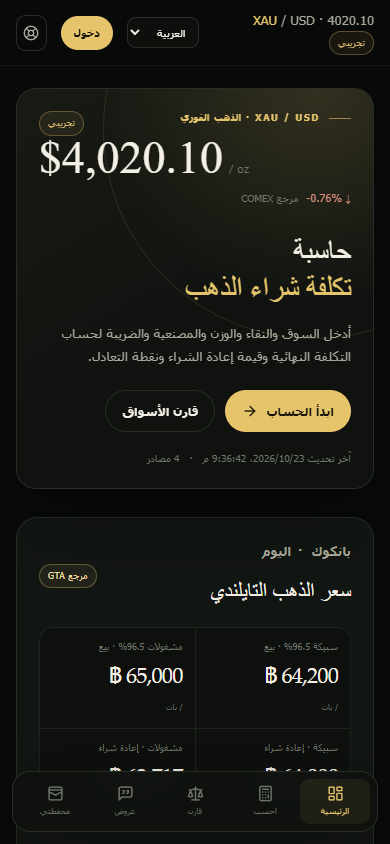
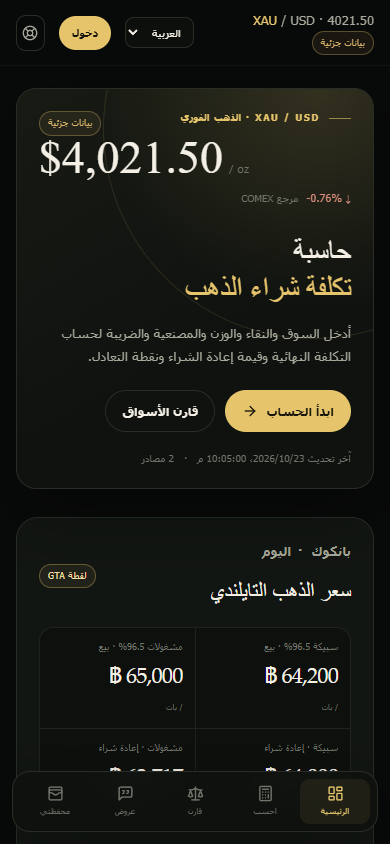
feat: show partial-data status for live sources

diff --git a/packages/i18n/src/index.ts b/packages/i18n/src/index.ts
@@ -26,12 +26,12 @@ const zh = {
     noData: '暂无数据', normal: '正常', localMode: '本地模式', synced: '已同步', free: 'FREE', pro: 'PRO', upgrade: '升级到 Pro',
     current: '当前', all: '全部', actions: '操作', market: '市场', weight: '重量', purity: '纯度', city: '城市',
     name: '名称', type: '类型', cost: '成本', value: '估值', pnl: '盈亏', total: '合计', perGram: '每克',
-    currency: '币种', role: '角色', plan: '方案', optional: '可选', required: '必填', demoOnly: '演示', mainNav: '主导航', workspaceNav: '工作区', mobileNav: '移动导航', priceTrend: '价格走势', noTrend: '暂无走势', workspace: '工作区', refresh: '1 分钟刷新'
+    currency: '币种', role: '角色', plan: '方案', optional: '可选', required: '必填', demoOnly: '演示', mainNav: '主导航', workspaceNav: '工作区', mobileNav: '移动导航', priceTrend: '价格走势', noTrend: '暂无走势', workspace: '工作区', refresh: '1 分钟刷新', partial: '部分数据'
   },
   home: {
     eyebrow: 'XAU / USD · 现货黄金', titleA: '黄金购买成本', titleB: '计算与对比',
     subtitle: '输入市场、纯度、重量、工费和税费，计算到手价、回购价与回本点。',
-    ctaCalc: '开始计算', ctaCompare: '对比市场', gta: 'GTA 官方参考', comex: 'COMEX 参考', bangkok: '曼谷 · 今日',
+    ctaCalc: '开始计算', ctaCompare: '对比市场', gta: 'GTA 官方参考', gtaSnapshot: 'GTA 快照', comex: 'COMEX 参考', bangkok: '曼谷 · 今日',
     thaiTitle: '泰国金价', barSell: '金条 96.5% · 卖出', ornamentSell: '金饰 96.5% · 卖出',
     barBuy: '金条 · 回购', ornamentBuy: '金饰 · 回购', perBaht: '/ บาท', spread: '金饰一买一卖，价差 {spread}，约 {pct}%',
     sparkTitle: '国际金价 · 近 30 天', quickRead: '快速估算', oneBaht: '1 baht 金饰预估', buybackApprox: '回购约 {value} · 回本需 {pct}%',
@@ -167,8 +167,8 @@ const en: Dict = {
   markets: { TH: 'Thailand', AE: 'UAE', IN: 'India', US: 'United States' },
   verification: { self_reported: 'Self-reported', verified: 'Verified', audited: 'Audited' },
   meta: { title: 'GoldLens · Gold purchase cost calculator', description: 'Spot, local counter price, making charge, tax and buyback — one bill.' },
-  common: { signIn: 'Sign in', signOut: 'Sign out', live: 'LIVE', demo: 'DEMO', snapshot: 'Snapshot', updated: 'Updated', sources: '{n} sources', view: 'View', save: 'Save', delete: 'Delete', add: 'Add', submit: 'Submit', submitting: 'Submitting', cancel: 'Cancel', back: 'Back', close: 'Close', language: 'Language', email: 'Email', password: 'Password', login: 'Sign in', loading: 'Loading', error: 'Something went wrong', retry: 'Retry', notFound: 'Not found', notFoundTitle: 'Page not found', notFoundBody: 'The page may have been removed, or the link is incorrect. Return to the home page.', errorTitle: 'Page failed to load', errorBody: 'A temporary error occurred. Your data is safe. Please retry or return home.', disclaimer: 'This tool does not provide trading, custody or investment advice. Prices include source and timestamp.', noData: 'No data', normal: 'Normal', localMode: 'Local mode', synced: 'Synced', free: 'FREE', pro: 'PRO', upgrade: 'Upgrade to Pro', current: 'Current', all: 'All', actions: 'Actions', market: 'Market', weight: 'Weight', purity: 'Purity', city: 'City', name: 'Name', type: 'Type', cost: 'Cost', value: 'Value', pnl: 'P&L', total: 'Total', perGram: 'Per gram', currency: 'Currency', role: 'Role', plan: 'Plan', optional: 'Optional', required: 'Required', demoOnly: 'Demo', mainNav: 'Main navigation', workspaceNav: 'Workspace', mobileNav: 'Mobile navigation', priceTrend: 'Price trend', noTrend: 'No trend data', workspace: 'Workspace', refresh: '1m refresh' },
-  home: { eyebrow: 'XAU / USD · SPOT GOLD', titleA: 'Gold purchase cost ', titleB: 'calculator & comparison', subtitle: 'Enter market, purity, weight, making charge and tax to calculate landed cost, buyback value and break-even.', ctaCalc: 'Start calculation', ctaCompare: 'Compare markets', gta: 'GTA reference', comex: 'COMEX reference', bangkok: 'BANGKOK · TODAY', thaiTitle: 'Thai gold price', barSell: 'Bar 96.5% · sell', ornamentSell: 'Jewelry 96.5% · sell', barBuy: 'Bar · buyback', ornamentBuy: 'Jewelry · buyback', perBaht: '/ baht', spread: 'Jewelry round-trip spread {spread}, about {pct}%', sparkTitle: 'Spot gold · last 30 days', quickRead: 'Quick estimate', oneBaht: '1 baht jewelry estimate', buybackApprox: 'Buyback about {value} · break-even {pct}%', kpiHidden: 'Thai jewelry hidden cost', kpiPremium: 'Jewelry premium', kpiFx: 'USD / THB', kpiDegraded: 'Data degraded', trueCostEyebrow: 'LIVE CALCULATION', trueCostTitle: 'Quick calculator', fullCalc: 'Open calculator', marketPulseEyebrow: 'MARKET', marketPulseTitle: 'Market overview', marketPulseSub: '1g · local default purity · default making/tax', tableMarket: 'Market', tablePurity: 'Purity', tableTotal: 'Landed / g', tableBuyback: 'Buyback / g', tableBreakEven: 'Break-even', tableData: 'Data', featuresEyebrow: 'WHAT YOU CAN DO', featuresTitle: 'Features', f1Title: 'True cost', f1Body: 'Metal, making, tax, buyback and break-even in one bill.', f2Title: 'Cross-market', f2Body: 'Thailand, UAE, India and US on one unit and basis.', f3Title: 'Holdings', f3Body: 'Local-first, valued at today’s buyback price.', f4Title: 'Price alerts', f4Body: 'Set a target price and get an alert when it is reached.', f5Title: 'Dealer quotes', f5Body: 'Send a structured request and get comparable offers.', f6Title: 'Natural language input', f6Body: 'A sentence or a receipt becomes structured input; the engine still calculates.', howEyebrow: 'RELEASE NOTES', howTitle: 'Current version', howBody: 'This version provides market data, cost calculation, holdings, alerts and quotes. Demo mode uses a bundled snapshot and sample dealer data.', updatedAt: 'Updated {time}', dataSources: '{n} sources' },
+  common: { signIn: 'Sign in', signOut: 'Sign out', live: 'LIVE', demo: 'DEMO', snapshot: 'Snapshot', updated: 'Updated', sources: '{n} sources', view: 'View', save: 'Save', delete: 'Delete', add: 'Add', submit: 'Submit', submitting: 'Submitting', cancel: 'Cancel', back: 'Back', close: 'Close', language: 'Language', email: 'Email', password: 'Password', login: 'Sign in', loading: 'Loading', error: 'Something went wrong', retry: 'Retry', notFound: 'Not found', notFoundTitle: 'Page not found', notFoundBody: 'The page may have been removed, or the link is incorrect. Return to the home page.', errorTitle: 'Page failed to load', errorBody: 'A temporary error occurred. Your data is safe. Please retry or return home.', disclaimer: 'This tool does not provide trading, custody or investment advice. Prices include source and timestamp.', noData: 'No data', normal: 'Normal', localMode: 'Local mode', synced: 'Synced', free: 'FREE', pro: 'PRO', upgrade: 'Upgrade to Pro', current: 'Current', all: 'All', actions: 'Actions', market: 'Market', weight: 'Weight', purity: 'Purity', city: 'City', name: 'Name', type: 'Type', cost: 'Cost', value: 'Value', pnl: 'P&L', total: 'Total', perGram: 'Per gram', currency: 'Currency', role: 'Role', plan: 'Plan', optional: 'Optional', required: 'Required', demoOnly: 'Demo', mainNav: 'Main navigation', workspaceNav: 'Workspace', mobileNav: 'Mobile navigation', priceTrend: 'Price trend', noTrend: 'No trend data', workspace: 'Workspace', refresh: '1m refresh', partial: 'Partial data' },
+  home: { eyebrow: 'XAU / USD · SPOT GOLD', titleA: 'Gold purchase cost ', titleB: 'calculator & comparison', subtitle: 'Enter market, purity, weight, making charge and tax to calculate landed cost, buyback value and break-even.', ctaCalc: 'Start calculation', ctaCompare: 'Compare markets', gta: 'GTA reference', gtaSnapshot: 'GTA snapshot', comex: 'COMEX reference', bangkok: 'BANGKOK · TODAY', thaiTitle: 'Thai gold price', barSell: 'Bar 96.5% · sell', ornamentSell: 'Jewelry 96.5% · sell', barBuy: 'Bar · buyback', ornamentBuy: 'Jewelry · buyback', perBaht: '/ baht', spread: 'Jewelry round-trip spread {spread}, about {pct}%', sparkTitle: 'Spot gold · last 30 days', quickRead: 'Quick estimate', oneBaht: '1 baht jewelry estimate', buybackApprox: 'Buyback about {value} · break-even {pct}%', kpiHidden: 'Thai jewelry hidden cost', kpiPremium: 'Jewelry premium', kpiFx: 'USD / THB', kpiDegraded: 'Data degraded', trueCostEyebrow: 'LIVE CALCULATION', trueCostTitle: 'Quick calculator', fullCalc: 'Open calculator', marketPulseEyebrow: 'MARKET', marketPulseTitle: 'Market overview', marketPulseSub: '1g · local default purity · default making/tax', tableMarket: 'Market', tablePurity: 'Purity', tableTotal: 'Landed / g', tableBuyback: 'Buyback / g', tableBreakEven: 'Break-even', tableData: 'Data', featuresEyebrow: 'WHAT YOU CAN DO', featuresTitle: 'Features', f1Title: 'True cost', f1Body: 'Metal, making, tax, buyback and break-even in one bill.', f2Title: 'Cross-market', f2Body: 'Thailand, UAE, India and US on one unit and basis.', f3Title: 'Holdings', f3Body: 'Local-first, valued at today’s buyback price.', f4Title: 'Price alerts', f4Body: 'Set a target price and get an alert when it is reached.', f5Title: 'Dealer quotes', f5Body: 'Send a structured request and get comparable offers.', f6Title: 'Natural language input', f6Body: 'A sentence or a receipt becomes structured input; the engine still calculates.', howEyebrow: 'RELEASE NOTES', howTitle: 'Current version', howBody: 'This version provides market data, cost calculation, holdings, alerts and quotes. Demo mode uses a bundled snapshot and sample dealer data.', updatedAt: 'Updated {time}', dataSources: '{n} sources' },
   calc: { eyebrow: 'TRUE COST CALCULATOR', title: 'Gold purchase cost calculator', subtitle: 'Choose market, purity and weight, then adjust making charge and tax. Results update instantly.', aiPlaceholder: 'e.g. 1 baht 96.5 in Bangkok today', aiNote: 'AI only parses input parameters. Amounts are calculated by the calculator; AI gives no buy or sell advice.', aiParse: 'Parse', aiParsing: 'Parsing', aiSourceAI: 'AI parse', aiSourceRules: 'Rules parse', aiError: 'Could not parse; use the form below', market: 'Market', purity: 'Purity', weight: 'Weight', making: 'Making / design premium', tax: 'Tax', updated: 'Calculation updated', reset: 'Reset', localNote: 'Local prices and taxes vary by store, product and policy. Use this as an anchor, not a dealer quote.', resultEyebrow: 'COST BREAKDOWN', resultTitle: 'Estimated landed cost', estimated: 'ESTIMATE', perUnit: '{weight} {unit} · {purity} · {market}{ref}', gtaRef: ' GTA reference', converted: ' converted', stackMetal: 'Metal {value}', stackMaking: 'Making {value}', stackTax: 'Tax {value}', vsMetal: 'Vs metal', buyback: 'Buyback', perGram: 'Per gram', breakEven: 'Break-even', lossTitle: 'Round-trip hidden cost', insightThai: 'Of {total}, metal is {metal} and jewelry premium is {making}. A round trip loses {loss}; gold must rise {pct}% to break even.', insightOther: 'You pay {premium} above international metal. Buyback applies a {spread}% discount, so a round trip loses {loss}.', reference: 'Reference only', sourceSpot: 'Spot + FX', fairOk: 'Near bar price', fairWarn: 'High premium', fairBad: 'Very high premium', unitG: 'g', unitBaht: 'baht', unitTola: 'tola', unitOz: 'oz', source: 'Source: {source} · live refresh', invalid: 'Enter a valid weight to see the bill.', note: 'For price anchoring, not investment advice. Thailand uses GTA; other markets are spot + adjustable making/tax estimates, not dealer quotes.' },
   compare: { eyebrow: 'SAME UNIT · SAME PURITY', title: 'Market comparison', subtitle: 'Compare landed cost, buyback value and break-even across four markets using the same weight and purity.', weight: 'Weight', purity: 'Purity', scope: 'Basis', grams: '{value} g · default making/tax', tableMarket: 'Market', tableTotal: 'Landed cost', tablePremium: 'Vs metal', tableBuyback: 'Buyback', tableBreakEven: 'Break-even', tableVerdict: 'Verdict', best: 'Lowest landed cost in this set', comparable: 'Comparable', details: 'Details', note: '“Lowest landed cost” only holds for this set and excludes flights, travel, negotiation and buyback policy differences. Check buyback before buying across borders.' },
   quotes: { eyebrow: 'DEALER QUOTES', title: 'Get a quote', subtitle: 'Submit a structured request and receive quotes from verified dealers within 24 hours. Ranking is based on price, buyback, distance and verification, not commission.', verified: '{n} verified dealers', formEyebrow: 'REQUEST A QUOTE', formTitle: 'Request a quote', formSub: 'Your request goes to verified dealers; quotes carry expiry and verification level.', city: 'City', weight: 'Weight (g)', purity: 'Purity', note: 'Note', notePlaceholder: 'e.g. jewelry, visiting today, buyback terms', submit: 'Request quote', submitting: 'Submitting', submitted: 'Submitted · {id}… · dealers respond within 24h', failed: 'Submission failed; try again', disclaimer: 'No trading, no custody. A dealer quote is a commercial offer, subject to store confirmation.', currentEyebrow: 'THAILAND · 96.5%', currentTitle: 'Current quotes', noQuotes: 'No active quotes. Submit a request and dealers will appear here.', validUntil: 'Valid until {date}', sampleNote: 'Seed quotes demonstrate structure and ranking; production needs dealer submission, verification and expiry management.', nearby: 'Bangkok dealers', byRating: 'By rating · not ads', status: 'Verified' },
@@ -189,8 +189,8 @@ const th: Dict = {
   markets: { TH: 'ไทย', AE: 'สหรัฐอาหรับเอมิเรตส์', IN: 'อินเดีย', US: 'สหรัฐฯ' },
   verification: { self_reported: 'รายงานเอง', verified: 'ยืนยันแล้ว', audited: 'ตรวจสอบแล้ว' },
   meta: { title: 'GoldLens · รู้ต้นทุนจริงก่อนซื้อทอง', description: 'ราคาโลก ราคาร้าน ค่ากำเหน็จ ภาษี และราคารับซื้อคืน ในบิลเดียว' },
-  common: { signIn: 'เข้าสู่ระบบ', signOut: 'ออกจากระบบ', live: 'สด', demo: 'เดโม', snapshot: 'สแนปชอต', updated: 'อัปเดต', sources: '{n} แหล่งข้อมูล', view: 'ดู', save: 'บันทึก', delete: 'ลบ', add: 'เพิ่ม', submit: 'ส่ง', submitting: 'กำลังส่ง', cancel: 'ยกเลิก', back: 'กลับ', close: 'ปิด', language: 'ภาษา', email: 'อีเมล', password: 'รหัสผ่าน', login: 'เข้าสู่ระบบ', loading: 'กำลังโหลด', error: 'เกิดข้อผิดพลาด', retry: 'ลองใหม่', notFound: 'ไม่พบหน้า', notFoundTitle: 'ไม่พบหน้า', notFoundBody: 'หน้าอาจถูกย้ายหรือลิงก์ไม่ถูกต้อง กลับไปที่หน้าแรก', errorTitle: 'โหลดหน้าไม่สำเร็จ', errorBody: 'เกิดข้อผิดพลาดชั่วคราว ข้อมูลของคุณยังปลอดภัย โปรดลองใหม่หรือกลับหน้าแรก', disclaimer: 'ไม่ซื้อขาย ไม่รับฝาก ไม่ให้คำแนะนำการลงทุน ราคามีแหล่งที่มาและเวลา', noData: 'ไม่มีข้อมูล', normal: 'ปกติ', localMode: 'โหมดโลคอล', synced: 'ซิงก์แล้ว', free: 'ฟรี', pro: 'โปร', upgrade: 'อัปเกรดเป็น Pro', current: 'ปัจจุบัน', all: 'ทั้งหมด', actions: 'การกระทำ', market: 'ตลาด', weight: 'น้ำหนัก', purity: 'ความบริสุทธิ์', city: 'เมือง', name: 'ชื่อ', type: 'ประเภท', cost: 'ต้นทุน', value: 'มูลค่า', pnl: 'กำไร/ขาดทุน', total: 'รวม', perGram: 'ต่อกรัม', currency: 'สกุลเงิน', role: 'บทบาท', plan: 'แพ็กเกจ', optional: 'ไม่บังคับ', required: 'จำเป็น', demoOnly: 'เดโม', mainNav: 'เมนูหลัก', workspaceNav: 'พื้นที่ทำงาน', mobileNav: 'เมนูมือถือ', priceTrend: 'แนวโน้มราคา', noTrend: 'ไม่มีข้อมูลแนวโน้ม', workspace: 'พื้นที่ทำงาน', refresh: 'รีเฟรช 1 นาที' },
-  home: { eyebrow: 'XAU / USD · ทองคำสปอต', titleA: 'เครื่องคำนวณ ', titleB: 'ต้นทุนการซื้อทอง', subtitle: 'กรอกตลาด ความบริสุทธิ์ น้ำหนัก ค่ากำเหน็จ และภาษี เพื่อคำนวณราคารวม ราคารับซื้อ และจุดคุ้มทุน', ctaCalc: 'เริ่มคำนวณ', ctaCompare: 'เปรียบเทียบตลาด', gta: 'อ้างอิง GTA', comex: 'อ้างอิง COMEX', bangkok: 'กรุงเทพฯ · วันนี้', thaiTitle: 'ราคาทองไทย', barSell: 'ทองแท่ง 96.5% · ขาย', ornamentSell: 'ทองรูปพรรณ 96.5% · ขาย', barBuy: 'ทองแท่ง · รับซื้อ', ornamentBuy: 'ทองรูปพรรณ · รับซื้อ', perBaht: '/ บาท', spread: 'ส่วนต่างซื้อขายทองรูปพรรณ {spread} ประมาณ {pct}%', sparkTitle: 'ทองสปอต · 30 วัน', quickRead: 'ประมาณการเร็ว', oneBaht: 'ประเมินทอง 1 บาท', buybackApprox: 'รับซื้อประมาณ {value} · จุดคุ้มทุน {pct}%', kpiHidden: 'ต้นทุนแฝงทองไทย', kpiPremium: 'พรีเมียมทองรูปพรรณ', kpiFx: 'USD / THB', kpiDegraded: 'ข้อมูลลดระดับ', trueCostEyebrow: 'คำนวณสด', trueCostTitle: 'เครื่องคำนวณเร็ว', fullCalc: 'เปิดเครื่องคำนวณ', marketPulseEyebrow: 'ตลาด', marketPulseTitle: 'ภาพรวมตลาด', marketPulseSub: '1 กรัม · ความบริสุทธิ์เริ่มต้น · ค่ากำเหน็จ/ภาษีเริ่มต้น', tableMarket: 'ตลาด', tablePurity: 'ความบริสุทธิ์', tableTotal: 'ราคารวม / กรัม', tableBuyback: 'รับซื้อ / กรัม', tableBreakEven: 'จุดคุ้มทุน', tableData: 'ข้อมูล', featuresEyebrow: 'สิ่งที่ทำได้', featuresTitle: 'ฟีเจอร์', f1Title: 'ต้นทุนจริง', f1Body: 'เนื้อทอง ค่ากำเหน็จ ภาษี รับซื้อ และจุดคุ้มทุนในบิลเดียว', f2Title: 'เทียบข้ามตลาด', f2Body: 'ไทย สหรัฐอาหรับเอมิเรตส์ อินเดีย และสหรัฐฯ ในหน่วยเดียว', f3Title: 'พอร์ตทอง', f3Body: 'เก็บในเครื่องก่อน ประเมินด้วยราคารับซื้อวันนี้', f4Title: 'แจ้งเตือนราคา', f4Body: 'ตั้งราคาเป้าหมาย ไม่ต้องคอยรีเฟรช', f5Title: 'ใบเสนอราคาดีลเลอร์', f5Body: 'ส่งคำขอแบบมีโครงสร้าง ได้ข้อเสนอที่เทียบได้', f6Title: 'ป้อนข้อมูลด้วย AI', f6Body: 'ประโยคหรือใบเสร็จกลายเป็นข้อมูล โปรแกรมยังคำนวณเอง', howEyebrow: 'ข้อมูลเวอร์ชัน', howTitle: 'เวอร์ชันปัจจุบัน', howBody: 'เวอร์ชันนี้มีข้อมูลตลาด การคำนวณต้นทุน พอร์ต การแจ้งเตือน และใบเสนอราคา โหมดเดโมใช้สแนปชอตและข้อมูลดีลเลอร์ตัวอย่าง', updatedAt: 'อัปเดต {time}', dataSources: '{n} แหล่งข้อมูล' },
+  common: { signIn: 'เข้าสู่ระบบ', signOut: 'ออกจากระบบ', live: 'สด', demo: 'เดโม', snapshot: 'สแนปชอต', updated: 'อัปเดต', sources: '{n} แหล่งข้อมูล', view: 'ดู', save: 'บันทึก', delete: 'ลบ', add: 'เพิ่ม', submit: 'ส่ง', submitting: 'กำลังส่ง', cancel: 'ยกเลิก', back: 'กลับ', close: 'ปิด', language: 'ภาษา', email: 'อีเมล', password: 'รหัสผ่าน', login: 'เข้าสู่ระบบ', loading: 'กำลังโหลด', error: 'เกิดข้อผิดพลาด', retry: 'ลองใหม่', notFound: 'ไม่พบหน้า', notFoundTitle: 'ไม่พบหน้า', notFoundBody: 'หน้าอาจถูกย้ายหรือลิงก์ไม่ถูกต้อง กลับไปที่หน้าแรก', errorTitle: 'โหลดหน้าไม่สำเร็จ', errorBody: 'เกิดข้อผิดพลาดชั่วคราว ข้อมูลของคุณยังปลอดภัย โปรดลองใหม่หรือกลับหน้าแรก', disclaimer: 'ไม่ซื้อขาย ไม่รับฝาก ไม่ให้คำแนะนำการลงทุน ราคามีแหล่งที่มาและเวลา', noData: 'ไม่มีข้อมูล', normal: 'ปกติ', localMode: 'โหมดโลคอล', synced: 'ซิงก์แล้ว', free: 'ฟรี', pro: 'โปร', upgrade: 'อัปเกรดเป็น Pro', current: 'ปัจจุบัน', all: 'ทั้งหมด', actions: 'การกระทำ', market: 'ตลาด', weight: 'น้ำหนัก', purity: 'ความบริสุทธิ์', city: 'เมือง', name: 'ชื่อ', type: 'ประเภท', cost: 'ต้นทุน', value: 'มูลค่า', pnl: 'กำไร/ขาดทุน', total: 'รวม', perGram: 'ต่อกรัม', currency: 'สกุลเงิน', role: 'บทบาท', plan: 'แพ็กเกจ', optional: 'ไม่บังคับ', required: 'จำเป็น', demoOnly: 'เดโม', mainNav: 'เมนูหลัก', workspaceNav: 'พื้นที่ทำงาน', mobileNav: 'เมนูมือถือ', priceTrend: 'แนวโน้มราคา', noTrend: 'ไม่มีข้อมูลแนวโน้ม', workspace: 'พื้นที่ทำงาน', refresh: 'รีเฟรช 1 นาที', partial: 'ข้อมูลบางส่วน' },
+  home: { eyebrow: 'XAU / USD · ทองคำสปอต', titleA: 'เครื่องคำนวณ ', titleB: 'ต้นทุนการซื้อทอง', subtitle: 'กรอกตลาด ความบริสุทธิ์ น้ำหนัก ค่ากำเหน็จ และภาษี เพื่อคำนวณราคารวม ราคารับซื้อ และจุดคุ้มทุน', ctaCalc: 'เริ่มคำนวณ', ctaCompare: 'เปรียบเทียบตลาด', gta: 'อ้างอิง GTA', gtaSnapshot: 'สแนปชอต GTA', comex: 'อ้างอิง COMEX', bangkok: 'กรุงเทพฯ · วันนี้', thaiTitle: 'ราคาทองไทย', barSell: 'ทองแท่ง 96.5% · ขาย', ornamentSell: 'ทองรูปพรรณ 96.5% · ขาย', barBuy: 'ทองแท่ง · รับซื้อ', ornamentBuy: 'ทองรูปพรรณ · รับซื้อ', perBaht: '/ บาท', spread: 'ส่วนต่างซื้อขายทองรูปพรรณ {spread} ประมาณ {pct}%', sparkTitle: 'ทองสปอต · 30 วัน', quickRead: 'ประมาณการเร็ว', oneBaht: 'ประเมินทอง 1 บาท', buybackApprox: 'รับซื้อประมาณ {value} · จุดคุ้มทุน {pct}%', kpiHidden: 'ต้นทุนแฝงทองไทย', kpiPremium: 'พรีเมียมทองรูปพรรณ', kpiFx: 'USD / THB', kpiDegraded: 'ข้อมูลลดระดับ', trueCostEyebrow: 'คำนวณสด', trueCostTitle: 'เครื่องคำนวณเร็ว', fullCalc: 'เปิดเครื่องคำนวณ', marketPulseEyebrow: 'ตลาด', marketPulseTitle: 'ภาพรวมตลาด', marketPulseSub: '1 กรัม · ความบริสุทธิ์เริ่มต้น · ค่ากำเหน็จ/ภาษีเริ่มต้น', tableMarket: 'ตลาด', tablePurity: 'ความบริสุทธิ์', tableTotal: 'ราคารวม / กรัม', tableBuyback: 'รับซื้อ / กรัม', tableBreakEven: 'จุดคุ้มทุน', tableData: 'ข้อมูล', featuresEyebrow: 'สิ่งที่ทำได้', featuresTitle: 'ฟีเจอร์', f1Title: 'ต้นทุนจริง', f1Body: 'เนื้อทอง ค่ากำเหน็จ ภาษี รับซื้อ และจุดคุ้มทุนในบิลเดียว', f2Title: 'เทียบข้ามตลาด', f2Body: 'ไทย สหรัฐอาหรับเอมิเรตส์ อินเดีย และสหรัฐฯ ในหน่วยเดียว', f3Title: 'พอร์ตทอง', f3Body: 'เก็บในเครื่องก่อน ประเมินด้วยราคารับซื้อวันนี้', f4Title: 'แจ้งเตือนราคา', f4Body: 'ตั้งราคาเป้าหมาย ไม่ต้องคอยรีเฟรช', f5Title: 'ใบเสนอราคาดีลเลอร์', f5Body: 'ส่งคำขอแบบมีโครงสร้าง ได้ข้อเสนอที่เทียบได้', f6Title: 'ป้อนข้อมูลด้วย AI', f6Body: 'ประโยคหรือใบเสร็จกลายเป็นข้อมูล โปรแกรมยังคำนวณเอง', howEyebrow: 'ข้อมูลเวอร์ชัน', howTitle: 'เวอร์ชันปัจจุบัน', howBody: 'เวอร์ชันนี้มีข้อมูลตลาด การคำนวณต้นทุน พอร์ต การแจ้งเตือน และใบเสนอราคา โหมดเดโมใช้สแนปชอตและข้อมูลดีลเลอร์ตัวอย่าง', updatedAt: 'อัปเดต {time}', dataSources: '{n} แหล่งข้อมูล' },
   calc: { eyebrow: 'เครื่องคำนวณต้นทุนจริง', title: 'เครื่องคำนวณต้นทุนการซื้อทอง', subtitle: 'เลือกตลาด ความบริสุทธิ์ และน้ำหนัก จากนั้นปรับค่ากำเหน็จและภาษี ผลลัพธ์จะอัปเดตทันที', aiPlaceholder: 'เช่น 1 บาท 96.5 ที่กรุงเทพฯ วันนี้', aiNote: 'AI แยกพารามิเตอร์เท่านั้น ยอดเงินคำนวณโดยเครื่องคำนวณ และไม่ให้คำแนะนำซื้อขาย', aiParse: 'แยกข้อมูล', aiParsing: 'กำลังแยก', aiSourceAI: 'AI', aiSourceRules: 'กฎ', aiError: 'แยกไม่ได้ ใช้แบบฟอร์มด้านล่าง', market: 'ตลาด', purity: 'ความบริสุทธิ์', weight: 'น้ำหนัก', making: 'ค่ากำเหน็จ', tax: 'ภาษี', updated: 'คำนวณแล้ว', reset: 'รีเซ็ต', localNote: 'ราคาและภาษีขึ้นกับร้าน สินค้า และนโยบาย ใช้เป็นจุดอ้างอิง ไม่ใช่ใบเสนอราคา', resultEyebrow: 'รายละเอียดต้นทุน', resultTitle: 'ราคารวมโดยประมาณ', estimated: 'ประมาณ', perUnit: '{weight} {unit} · {purity} · {market}{ref}', gtaRef: ' อ้างอิง GTA', converted: ' แปลง', stackMetal: 'เนื้อทอง {value}', stackMaking: 'ค่ากำเหน็จ {value}', stackTax: 'ภาษี {value}', vsMetal: 'เทียบเนื้อทอง', buyback: 'รับซื้อคืน', perGram: 'ต่อกรัม', breakEven: 'จุดคุ้มทุน', lossTitle: 'ต้นทุนแฝงซื้อขาย', insightThai: 'จาก {total} เป็นเนื้อทอง {metal} และพรีเมียมทองรูปพรรณ {making} ซื้อขายรอบเดียวขาดทุน {loss} ทองต้องขึ้น {pct}% จึงคุ้มทุน', insightOther: 'คุณจ่ายสูงกว่าเนื้อทองโลก {premium} รับซื้อลด {spread}% ดังนั้นรอบเดียวขาดทุน {loss}', reference: 'อ้างอิงเท่านั้น', sourceSpot: 'ราคาโลก + อัตราแลกเปลี่ยน', fairOk: 'ใกล้ราคาทองแท่ง', fairWarn: 'พรีเมียมสูง', fairBad: 'พรีเมียมสูงมาก', unitG: 'กรัม', unitBaht: 'บาท', unitTola: 'โตลา', unitOz: 'ออนซ์', source: 'แหล่งที่มา: {source} · อัปเดตสด', invalid: 'กรอกน้ำหนักที่ถูกต้อง', note: 'ใช้เป็นจุดอ้างอิง ไม่ใช่คำแนะนำการลงทุน ไทยใช้ GTA ตลาดอื่นเป็นราคาโลก + ประมาณค่ากำเหน็จ/ภาษี' },
   compare: { eyebrow: 'หน่วยเดียว · ความบริสุทธิ์เดียว', title: 'เปรียบเทียบตลาด', subtitle: 'เปรียบเทียบราคารวม ราคารับซื้อ และจุดคุ้มทุนในสี่ตลาด ด้วยน้ำหนักและความบริสุทธิ์เดียวกัน', weight: 'น้ำหนัก', purity: 'ความบริสุทธิ์', scope: 'ฐาน', grams: '{value} กรัม · ค่ากำเหน็จ/ภาษีเริ่มต้น', tableMarket: 'ตลาด', tableTotal: 'ราคารวม', tablePremium: 'เทียบเนื้อทอง', tableBuyback: 'รับซื้อ', tableBreakEven: 'จุดคุ้มทุน', tableVerdict: 'สรุป', best: 'ราคารวมต่ำสุดในชุดนี้', comparable: 'เทียบได้', details: 'รายละเอียด', note: 'ราคาต่ำสุดใช้เฉพาะชุดนี้ ไม่รวมตั๋วเครื่องบิน ค่าเดินทาง การต่อรอง และนโยบายรับซื้อ ก่อนซื้อข้ามประเทศดูราคารับซื้อก่อน' },
   quotes: { eyebrow: 'ใบเสนอราคาดีลเลอร์', title: 'รับใบเสนอราคา', subtitle: 'ส่งคำขอแบบมีโครงสร้าง ให้ดีลเลอร์ที่ยืนยันแล้วตอบภายใน 24 ชั่วโมง การจัดอันดับพิจารณาราคา รับซื้อ ระยะทาง และการยืนยัน', verified: 'ดีลเลอร์ยืนยันแล้ว {n} ราย', formEyebrow: 'ขอใบเสนอราคา', formTitle: 'ส่งคำขอใบเสนอราคา', formSub: 'คำขอส่งถึงดีลเลอร์ที่ยืนยันแล้ว ใบเสนอมีอายุและการยืนยัน', city: 'เมือง', weight: 'น้ำหนัก (กรัม)', purity: 'ความบริสุทธิ์', note: 'หมายเหตุ', notePlaceholder: 'เช่น ทองรูปพรรณ ไปวันนี้ เงื่อนไขรับซื้อ', submit: 'ส่งคำขอ', submitting: 'กำลังส่ง', submitted: 'ส่งแล้ว · {id}… · ดีลเลอร์ตอบภายใน 24 ชม.', failed: 'ส่งไม่สำเร็จ ลองใหม่', disclaimer: 'ไม่ซื้อขาย ไม่รับฝาก ใบเสนอเป็นข้อเสนอทางการค้า ขึ้นกับร้าน', currentEyebrow: 'ไทย · 96.5%', currentTitle: 'ใบเสนอราคาปัจจุบัน', noQuotes: 'ยังไม่มีใบเสนอ ส่งคำขอแล้วดีลเลอร์จะปรากฏที่นี่', validUntil: 'ถึง {date}', sampleNote: 'ข้อมูล seed เพื่อสาธิตโครงสร้างและการจัดอันดับ การผลิตต้องมีการส่ง ตรวจสอบ และหมดอายุ', nearby: 'ร้านในกรุงเทพฯ', byRating: 'ตามคะแนน · ไม่ใช่โฆษณา', status: 'ยืนยันแล้ว' },
@@ -211,8 +211,8 @@ const ar: Dict = {
   markets: { TH: 'تايلاند', AE: 'الإمارات', IN: 'الهند', US: 'أمريكا' },
   verification: { self_reported: 'مبلّغ عنه', verified: 'موثق', audited: 'مدقق' },
   meta: { title: 'GoldLens · اعرف التكلفة الحقيقية قبل شراء الذهب', description: 'السعر العالمي وسعر المتجر والمصنعية والضريبة وإعادة الشراء في فاتورة واحدة.' },
-  common: { signIn: 'دخول', signOut: 'خروج', live: 'مباشر', demo: 'تجريبي', snapshot: 'لقطة', updated: 'آخر تحديث', sources: '{n} مصادر', view: 'عرض', save: 'حفظ', delete: 'حذف', add: 'إضافة', submit: 'إرسال', submitting: 'جارٍ الإرسال', cancel: 'إلغاء', back: 'رجوع', close: 'إغلاق', language: 'اللغة', email: 'البريد', password: 'كلمة المرور', login: 'دخول', loading: 'جارٍ التحميل', error: 'حدث خطأ', retry: 'إعادة المحاولة', notFound: 'غير موجود', notFoundTitle: 'الصفحة غير موجودة', notFoundBody: 'ربما أُزيلت الصفحة أو الرابط غير صحيح. ارجع إلى الصفحة الرئيسية.', errorTitle: 'تعذر تحميل الصفحة', errorBody: 'حدث خطأ مؤقت. بياناتك آمنة. أعد المحاولة أو ارجع للرئيسية.', disclaimer: 'لا تداول، لا حفظ، لا نصيحة استثمارية. الأسعار تحمل المصدر والوقت.', noData: 'لا بيانات', normal: 'طبيعي', localMode: 'وضع محلي', synced: 'متزامن', free: 'مجاني', pro: 'برو', upgrade: 'ترقية إلى برو', current: 'الحالي', all: 'الكل', actions: 'إجراءات', market: 'السوق', weight: 'الوزن', purity: 'النقاء', city: 'المدينة', name: 'الاسم', type: 'النوع', cost: 'التكلفة', value: 'القيمة', pnl: 'الربح/الخسارة', total: 'الإجمالي', perGram: 'للغرام', currency: 'العملة', role: 'الدور', plan: 'الخطة', optional: 'اختياري', required: 'مطلوب', demoOnly: 'تجريبي', mainNav: 'التنقل الرئيسي', workspaceNav: 'مساحة العمل', mobileNav: 'تنقل الجوال', priceTrend: 'اتجاه السعر', noTrend: 'لا بيانات اتجاه', workspace: 'مساحة العمل', refresh: 'تحديث كل دقيقة' },
-  home: { eyebrow: 'XAU / USD · الذهب الفوري', titleA: 'حاسبة ', titleB: 'تكلفة شراء الذهب', subtitle: 'أدخل السوق والنقاء والوزن والمصنعية والضريبة لحساب التكلفة النهائية وقيمة إعادة الشراء ونقطة التعادل.', ctaCalc: 'ابدأ الحساب', ctaCompare: 'قارن الأسواق', gta: 'مرجع GTA', comex: 'مرجع COMEX', bangkok: 'بانكوك · اليوم', thaiTitle: 'سعر الذهب التايلندي', barSell: 'سبيكة 96.5% · بيع', ornamentSell: 'مشغولات 96.5% · بيع', barBuy: 'سبيكة · إعادة شراء', ornamentBuy: 'مشغولات · إعادة شراء', perBaht: '/ بات', spread: 'فرق البيع والشراء للمشغولات {spread} نحو {pct}%', sparkTitle: 'الذهب الفوري · 30 يوماً', quickRead: 'تقدير سريع', oneBaht: 'تقدير مشغولات 1 بات', buybackApprox: 'إعادة الشراء نحو {value} · التعادل {pct}%', kpiHidden: 'التكلفة الخفية للمشغولات', kpiPremium: 'علاوة المشغولات', kpiFx: 'دولار / بات', kpiDegraded: 'بيانات منخفضة', trueCostEyebrow: 'حساب مباشر', trueCostTitle: 'حاسبة سريعة', fullCalc: 'افتح الحاسبة', marketPulseEyebrow: 'السوق', marketPulseTitle: 'نظرة عامة على السوق', marketPulseSub: '1 غرام · النقاء المحلي · المصنعية/الضريبة الافتراضية', tableMarket: 'السوق', tablePurity: 'النقاء', tableTotal: 'التكلفة/غرام', tableBuyback: 'إعادة الشراء/غرام', tableBreakEven: 'التعادل', tableData: 'البيانات', featuresEyebrow: 'ما يمكنك فعله', featuresTitle: 'الميزات', f1Title: 'التكلفة الحقيقية', f1Body: 'المعدن والمصنعية والضريبة وإعادة الشراء ونقطة التعادل في فاتورة.', f2Title: 'مقارنة الأسواق', f2Body: 'تايلاند والإمارات والهند وأمريكا بوزن واحد.', f3Title: 'المحفظة', f3Body: 'محلية أولاً، بتقدير سعر إعادة الشراء اليوم.', f4Title: 'تنبيهات السعر', f4Body: 'حدد هدفاً ولا تتابع السعر باستمرار.', f5Title: 'عروض التجار', f5Body: 'أرسل طلباً منظماً واحصل على عروض قابلة للمقارنة.', f6Title: 'إدخال بالذكاء الاصطناعي', f6Body: 'جملة أو إيصال يصبح مدخلات منظمة، والمحرك يحسب.', howEyebrow: 'ملاحظات الإصدار', howTitle: 'الإصدار الحالي', howBody: 'توفر هذه النسخة بيانات السوق وحساب التكلفة والمحفظة والتنبيهات والعروض. يستخدم الوضع التجريبي لقطة وبيانات تجار نموذجية.', updatedAt: 'آخر تحديث {time}', dataSources: '{n} مصادر' },
+  common: { signIn: 'دخول', signOut: 'خروج', live: 'مباشر', demo: 'تجريبي', snapshot: 'لقطة', updated: 'آخر تحديث', sources: '{n} مصادر', view: 'عرض', save: 'حفظ', delete: 'حذف', add: 'إضافة', submit: 'إرسال', submitting: 'جارٍ الإرسال', cancel: 'إلغاء', back: 'رجوع', close: 'إغلاق', language: 'اللغة', email: 'البريد', password: 'كلمة المرور', login: 'دخول', loading: 'جارٍ التحميل', error: 'حدث خطأ', retry: 'إعادة المحاولة', notFound: 'غير موجود', notFoundTitle: 'الصفحة غير موجودة', notFoundBody: 'ربما أُزيلت الصفحة أو الرابط غير صحيح. ارجع إلى الصفحة الرئيسية.', errorTitle: 'تعذر تحميل الصفحة', errorBody: 'حدث خطأ مؤقت. بياناتك آمنة. أعد المحاولة أو ارجع للرئيسية.', disclaimer: 'لا تداول، لا حفظ، لا نصيحة استثمارية. الأسعار تحمل المصدر والوقت.', noData: 'لا بيانات', normal: 'طبيعي', localMode: 'وضع محلي', synced: 'متزامن', free: 'مجاني', pro: 'برو', upgrade: 'ترقية إلى برو', current: 'الحالي', all: 'الكل', actions: 'إجراءات', market: 'السوق', weight: 'الوزن', purity: 'النقاء', city: 'المدينة', name: 'الاسم', type: 'النوع', cost: 'التكلفة', value: 'القيمة', pnl: 'الربح/الخسارة', total: 'الإجمالي', perGram: 'للغرام', currency: 'العملة', role: 'الدور', plan: 'الخطة', optional: 'اختياري', required: 'مطلوب', demoOnly: 'تجريبي', mainNav: 'التنقل الرئيسي', workspaceNav: 'مساحة العمل', mobileNav: 'تنقل الجوال', priceTrend: 'اتجاه السعر', noTrend: 'لا بيانات اتجاه', workspace: 'مساحة العمل', refresh: 'تحديث كل دقيقة', partial: 'بيانات جزئية' },
+  home: { eyebrow: 'XAU / USD · الذهب الفوري', titleA: 'حاسبة ', titleB: 'تكلفة شراء الذهب', subtitle: 'أدخل السوق والنقاء والوزن والمصنعية والضريبة لحساب التكلفة النهائية وقيمة إعادة الشراء ونقطة التعادل.', ctaCalc: 'ابدأ الحساب', ctaCompare: 'قارن الأسواق', gta: 'مرجع GTA', gtaSnapshot: 'لقطة GTA', comex: 'مرجع COMEX', bangkok: 'بانكوك · اليوم', thaiTitle: 'سعر الذهب التايلندي', barSell: 'سبيكة 96.5% · بيع', ornamentSell: 'مشغولات 96.5% · بيع', barBuy: 'سبيكة · إعادة شراء', ornamentBuy: 'مشغولات · إعادة شراء', perBaht: '/ بات', spread: 'فرق البيع والشراء للمشغولات {spread} نحو {pct}%', sparkTitle: 'الذهب الفوري · 30 يوماً', quickRead: 'تقدير سريع', oneBaht: 'تقدير مشغولات 1 بات', buybackApprox: 'إعادة الشراء نحو {value} · التعادل {pct}%', kpiHidden: 'التكلفة الخفية للمشغولات', kpiPremium: 'علاوة المشغولات', kpiFx: 'دولار / بات', kpiDegraded: 'بيانات منخفضة', trueCostEyebrow: 'حساب مباشر', trueCostTitle: 'حاسبة سريعة', fullCalc: 'افتح الحاسبة', marketPulseEyebrow: 'السوق', marketPulseTitle: 'نظرة عامة على السوق', marketPulseSub: '1 غرام · النقاء المحلي · المصنعية/الضريبة الافتراضية', tableMarket: 'السوق', tablePurity: 'النقاء', tableTotal: 'التكلفة/غرام', tableBuyback: 'إعادة الشراء/غرام', tableBreakEven: 'التعادل', tableData: 'البيانات', featuresEyebrow: 'ما يمكنك فعله', featuresTitle: 'الميزات', f1Title: 'التكلفة الحقيقية', f1Body: 'المعدن والمصنعية والضريبة وإعادة الشراء ونقطة التعادل في فاتورة.', f2Title: 'مقارنة الأسواق', f2Body: 'تايلاند والإمارات والهند وأمريكا بوزن واحد.', f3Title: 'المحفظة', f3Body: 'محلية أولاً، بتقدير سعر إعادة الشراء اليوم.', f4Title: 'تنبيهات السعر', f4Body: 'حدد هدفاً ولا تتابع السعر باستمرار.', f5Title: 'عروض التجار', f5Body: 'أرسل طلباً منظماً واحصل على عروض قابلة للمقارنة.', f6Title: 'إدخال بالذكاء الاصطناعي', f6Body: 'جملة أو إيصال يصبح مدخلات منظمة، والمحرك يحسب.', howEyebrow: 'ملاحظات الإصدار', howTitle: 'الإصدار الحالي', howBody: 'توفر هذه النسخة بيانات السوق وحساب التكلفة والمحفظة والتنبيهات والعروض. يستخدم الوضع التجريبي لقطة وبيانات تجار نموذجية.', updatedAt: 'آخر تحديث {time}', dataSources: '{n} مصادر' },
   calc: { eyebrow: 'حاسبة التكلفة الحقيقية', title: 'حاسبة تكلفة شراء الذهب', subtitle: 'اختر السوق والنقاء والوزن، ثم عدل المصنعية والضريبة. تتحدث النتيجة فوراً.', aiPlaceholder: 'مثال: 1 بات 96.5 في بانكوك اليوم', aiNote: 'يحلل AI معاملات الإدخال فقط. تُحسب المبالغ بواسطة الحاسبة، ولا يقدم AI نصيحة شراء أو بيع.', aiParse: 'تحليل', aiParsing: 'جارٍ التحليل', aiSourceAI: 'تحليل AI', aiSourceRules: 'قواعد', aiError: 'تعذر التحليل؛ استخدم النموذج أدناه', market: 'السوق', purity: 'النقاء', weight: 'الوزن', making: 'المصنعية / علاوة التصميم', tax: 'الضريبة', updated: 'تم الحساب', reset: 'إعادة ضبط', localNote: 'الأسعار والضرائب تختلف حسب المتجر والمنتج والسياسة. استخدمها كمرجع لا كعرض تاجر.', resultEyebrow: 'تفاصيل التكلفة', resultTitle: 'التكلفة النهائية التقديرية', estimated: 'تقدير', perUnit: '{weight} {unit} · {purity} · {market}{ref}', gtaRef: ' مرجع GTA', converted: ' محول', stackMetal: 'المعدن {value}', stackMaking: 'المصنعية {value}', stackTax: 'الضريبة {value}', vsMetal: 'مقابل المعدن', buyback: 'إعادة الشراء', perGram: 'للغرام', breakEven: 'نقطة التعادل', lossTitle: 'التكلفة الخفية للبيع والشراء', insightThai: 'من {total}، المعدن {metal} وعلاوة المشغولات {making}. دورة بيع وشراء تخسر {loss}؛ يجب أن يرتفع الذهب {pct}% للتعادل.', insightOther: 'تدفع {premium} فوق المعدن الدولي. إعادة الشراء بخصم {spread}%، لذا تخسر {loss} في الدورة.', reference: 'مرجع فقط', sourceSpot: 'السعر العالمي + الصرف', fairOk: 'قريب من سعر السبيكة', fairWarn: 'علاوة مرتفعة', fairBad: 'علاوة مرتفعة جداً', unitG: 'غرام', unitBaht: 'بات', unitTola: 'تولا', unitOz: 'أونصة', source: 'المصدر: {source} · تحديث مباشر', invalid: 'أدخل وزناً صالحاً.', note: 'للتأطير السعري وليس نصيحة استثمارية. تايلاند تستخدم GTA والأسواق الأخرى تقديرات السعر العالمي + المصنعية/الضريبة.' },
   compare: { eyebrow: 'نفس الوحدة · نفس النقاء', title: 'مقارنة الأسواق', subtitle: 'قارن التكلفة النهائية وقيمة إعادة الشراء ونقطة التعادل في أربعة أسواق بنفس الوزن والنقاء.', weight: 'الوزن', purity: 'النقاء', scope: 'الأساس', grams: '{value} غرام · مصنعية/ضريبة افتراضية', tableMarket: 'السوق', tableTotal: 'التكلفة النهائية', tablePremium: 'مقابل المعدن', tableBuyback: 'إعادة الشراء', tableBreakEven: 'التعادل', tableVerdict: 'الحكم', best: 'أقل تكلفة في هذه المجموعة', comparable: 'قابل للمقارنة', details: 'التفاصيل', note: 'أقل تكلفة تنطبق على هذه المجموعة فقط ولا تشمل السفر والتفاوض وسياسات إعادة الشراء. تحقق من إعادة الشراء قبل الشراء عبر الحدود.' },
   quotes: { eyebrow: 'عروض التجار', title: 'الحصول على عرض', subtitle: 'أرسل طلباً منظماً واحصل على عروض من تجار موثقين خلال 24 ساعة. يعتمد الترتيب على السعر وإعادة الشراء والمسافة والتوثيق.', verified: '{n} تجار موثقون', formEyebrow: 'اطلب عرضاً', formTitle: 'إرسال طلب عرض', formSub: 'يذهب الطلب إلى تجار موثقين؛ العروض لها صلاحية ومستوى توثيق.', city: 'المدينة', weight: 'الوزن (غرام)', purity: 'النقاء', note: 'ملاحظة', notePlaceholder: 'مثال: مشغولات، زيارة اليوم، شروط إعادة الشراء', submit: 'إرسال الطلب', submitting: 'جارٍ الإرسال', submitted: 'أُرسل · {id}… · يرد التجار خلال 24 ساعة', failed: 'فشل الإرسال؛ أعد المحاولة', disclaimer: 'لا تداول ولا حفظ. عرض التاجر عرض تجاري ويخضع لتأكيد المتجر.', currentEyebrow: 'تايلاند · 96.5%', currentTitle: 'العروض الحالية', noQuotes: 'لا عروض نشطة. أرسل طلباً وسيظهر التجار هنا.', validUntil: 'صالح حتى {date}', sampleNote: 'عروض seed لتوضيح الهيكل والترتيب؛ الإنتاج يحتاج إرسال وتحقق وانتهاء.', nearby: 'تجار بانكوك', byRating: 'حسب التقييم · ليس إعلاناً', status: 'موثق' },

diff --git a/apps/web/src/components/app-shell.tsx b/apps/web/src/components/app-shell.tsx
@@ -28,6 +28,7 @@ export function AppShell({ children }: { children: React.ReactNode }) {
   const { data: session } = useSession();
   const { locale, setLocale, t } = useI18n();
   const { data, demo } = useMarket();
+  const isPartial = !demo && data.degraded.length > 0;
   const role = (session?.user as any)?.role;
 
   const isActive = (href: string) => href === '/' ? pathname === '/' : pathname.startsWith(href);
@@ -64,7 +65,7 @@ export function AppShell({ children }: { children: React.ReactNode }) {
         </nav>
         <div className="side-foot">
           <div className="row" style={{ marginBottom: 8 }}>
-            <span className={`badge ${demo ? 'warn' : 'green'}`}><span className="user-dot" />{demo ? t('common.demo') : t('common.live')}</span>
+            <span className={`badge ${demo ? 'warn' : isPartial ? 'warn' : 'green'}`}><span className="user-dot" />{demo ? t('common.demo') : isPartial ? t('common.partial') : t('common.live')}</span>
             <span className="tiny">{t('common.refresh')}</span>
           </div>
           <p>{t('common.disclaimer')}</p>
@@ -75,7 +76,7 @@ export function AppShell({ children }: { children: React.ReactNode }) {
         <header className="topbar">
           <div className="topbar-title">
             <span className="gold">XAU</span> / USD · {data.spot.usdOz.toFixed(2)}
-            <span className={`badge ${demo ? 'warn' : 'green'}`} style={{ marginLeft: 10 }}>{demo ? t('common.demo') : t('common.live')}</span>
+            <span className={`badge ${demo ? 'warn' : isPartial ? 'warn' : 'green'}`} style={{ marginLeft: 10 }}>{demo ? t('common.demo') : isPartial ? t('common.partial') : t('common.live')}</span>
           </div>
           <div className="topbar-spacer" />
           <select

diff --git a/apps/web/src/app/page.tsx b/apps/web/src/app/page.tsx
@@ -34,7 +34,7 @@ export default function HomePage() {
         <div className="hero-main">
           <div className="between" style={{ alignItems: 'flex-start' }}>
             <div className="eyebrow"><span className="eyebrow-line" />{t('home.eyebrow')}</div>
-            <span className={`badge ${demo ? 'warn' : 'green'}`}>{demo ? t('common.demo') : t('common.live')}</span>
+            <span className={`badge ${demo ? 'warn' : data.degraded.length ? 'warn' : 'green'}`}>{demo ? t('common.demo') : data.degraded.length ? t('common.partial') : t('common.live')}</span>
           </div>
           <div className="hero-price" dir="ltr">
             ${formatNumber(data.spot.usdOz, 2, intl)}<small>/ oz</small>
@@ -63,7 +63,7 @@ export default function HomePage() {
                 <p className="eyebrow">{t('home.bangkok')}</p>
                 <h2>{t('home.thaiTitle')}</h2>
               </div>
-              <span className="badge gold">{t('home.gta')}</span>
+              <span className="badge gold">{data.degraded.includes('gta') ? t('home.gtaSnapshot') : t('home.gta')}</span>
             </div>
             <div className="price-grid">
               <div className="price-cell"><span>{t('home.barSell')}</span><strong>{formatMoney(data.thai?.barSell ?? 0, 'THB', 0, intl)}</strong><small>{t('home.perBaht')}</small></div>
